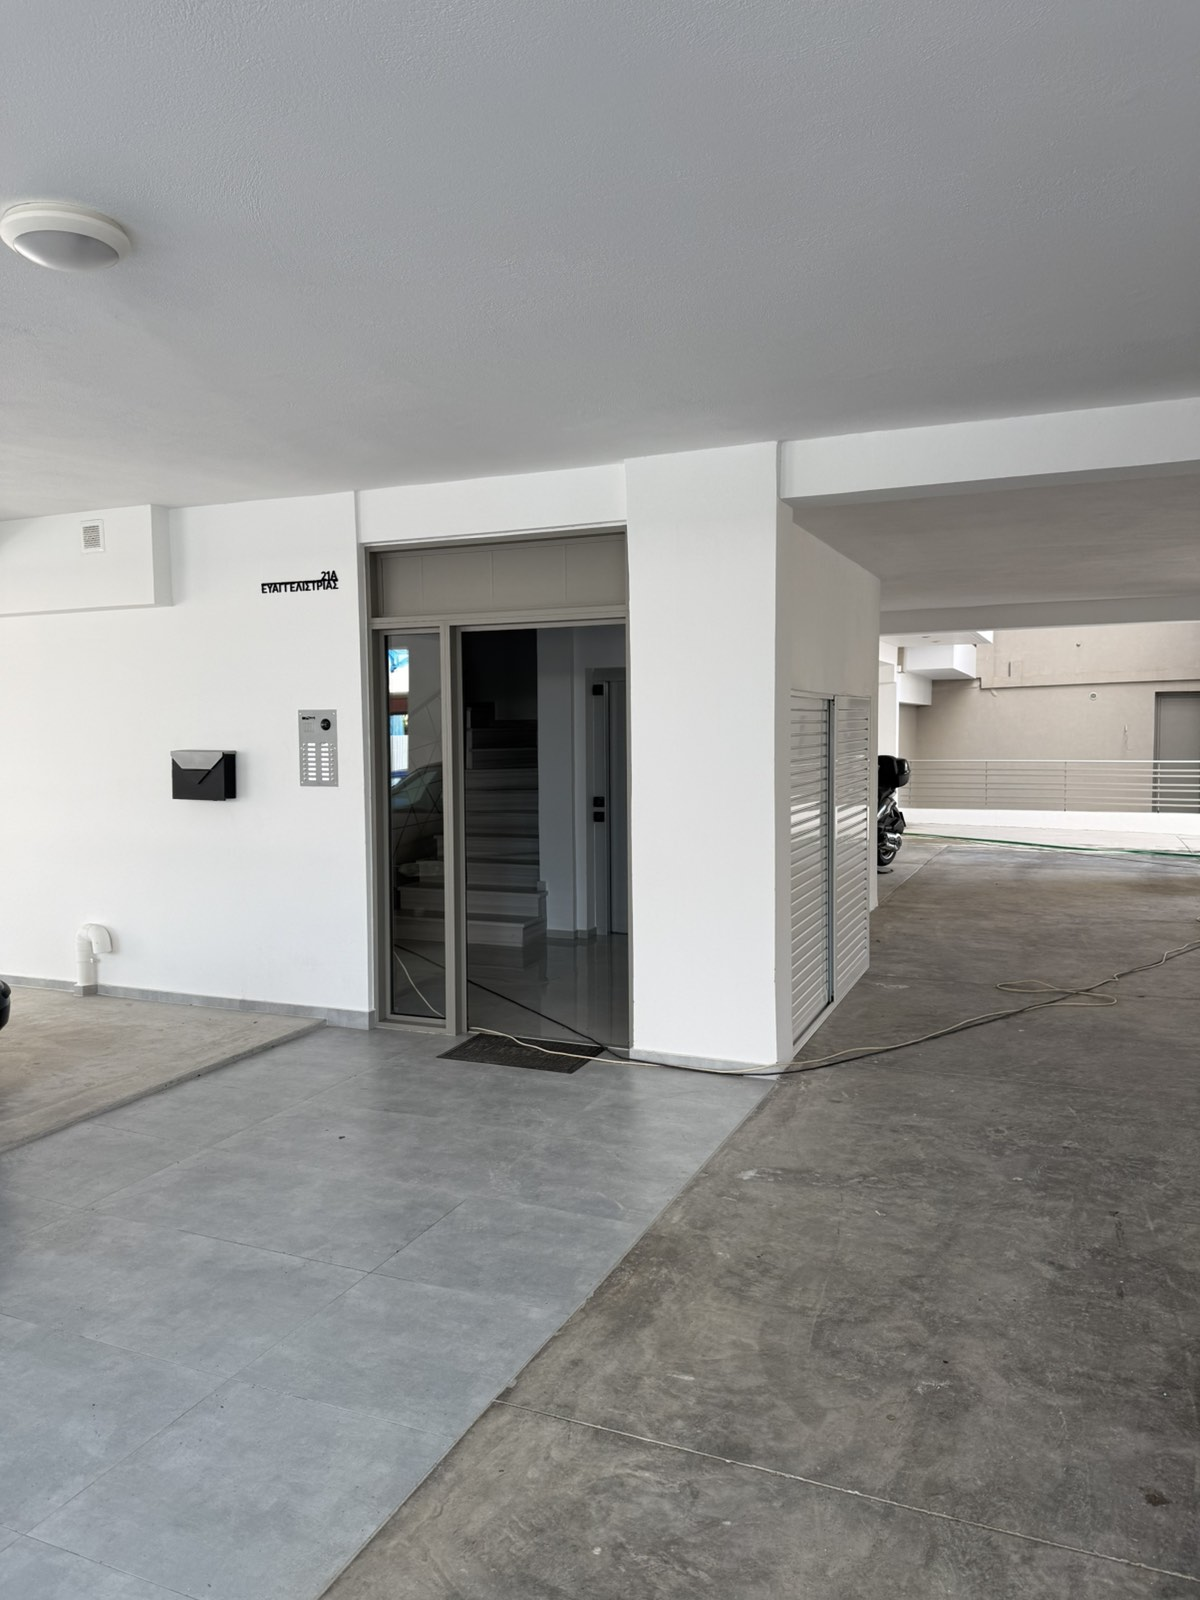
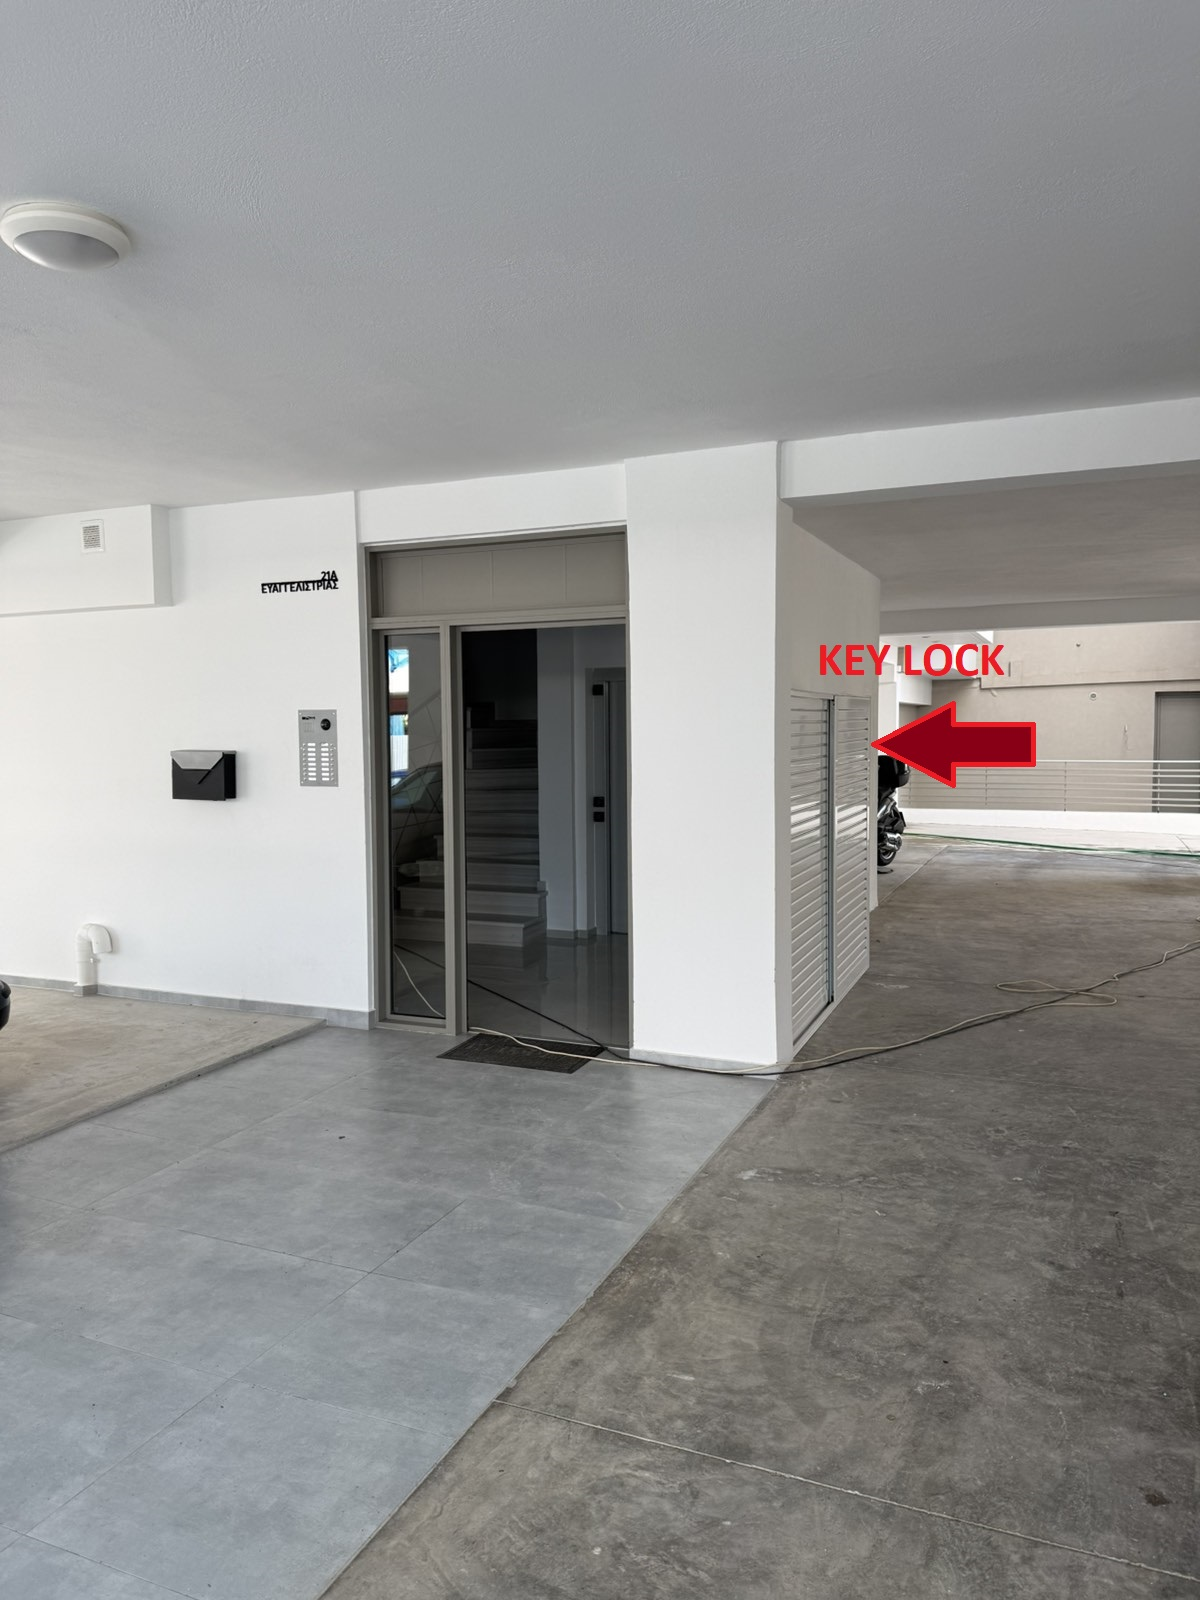
Add files via upload

Changed region(s): [[0.6783, 0.4062, 0.8633, 0.5]]

diff --git a/index.html b/index.html
@@ -129,7 +129,8 @@
         <strong>Entrance Code:</strong> <span id="entranceCode"></span>
     </p>
     <div class="popup-content">
-        <p>When you arrive you will see this Entrance.</p>
+        <p>When you arrive you will see this Entrance 21A.</p>
+        <img src="images/EisodosFotioy.jpg" class="popup-image">
         <img src="images/eksoAstoria.jpg" class="popup-image">
         <p>The Key Box is on the right side of the entrance</p>
         <img src="images/key2Astoria.jpg" class="popup-image">
@@ -137,7 +138,7 @@
             <strong>Key Box Code:</strong> <span id="keyBoxCode"></span>
         </p>
         <img src="images/keyAstoria.jpg" class="popup-image">
-        <p>The accommodation is on the 2nd Floor with the elevator.</p>
+        <p>The accommodation is on the 2nd Floor on the left side of the elevator.</p>
          <img src="images/PortaAstoria.jpg" class="popup-image">
 
     </div>

diff --git a/check_in.html b/check_in.html
@@ -65,7 +65,7 @@
     <h1 id="main-heading" class="fade-in"></h1>
 
     <div class="content fade-in">
-     <p>When you arrive you will see this Entrance.</p>
+     <p>When you arrive you will see this Entrance 21A.</p>
         <img src="images/eksoAstoria.jpg" class="popup-image">
         <p>The Key Lock is on the side of the entrance.</p>
         <img src="images/key2Astoria.jpg" class="popup-image">
@@ -73,7 +73,7 @@
             <strong>Key Box Code:</strong> <span id="keyBoxCode"></span>
         </p>
         <img src="images/keyAstoria.jpg" class="popup-image">
-        <p>The accommodation is on the 2nd Floor with the elevator.</p>
+        <p>The accommodation is on the 2nd Floor on the left side of the elevator.</p>
          <img src="images/PortaAstoria.jpg" class="popup-image">
 
 

diff --git a/config.js b/config.js
@@ -1,7 +1,7 @@
 // Centralized site data
 const SITE_CONFIG = {
     mainHeading: "Welcome to Astoria Apartment",
-    mapLink: "https://maps.app.goo.gl/RdRXi2yVyh15BtbF7",
+    mapLink: "https://maps.app.goo.gl/mzz89GcoUEj35zEv6",
     touristLink: "",
     wifi: {
         network: "Huawei_y3FheU",
